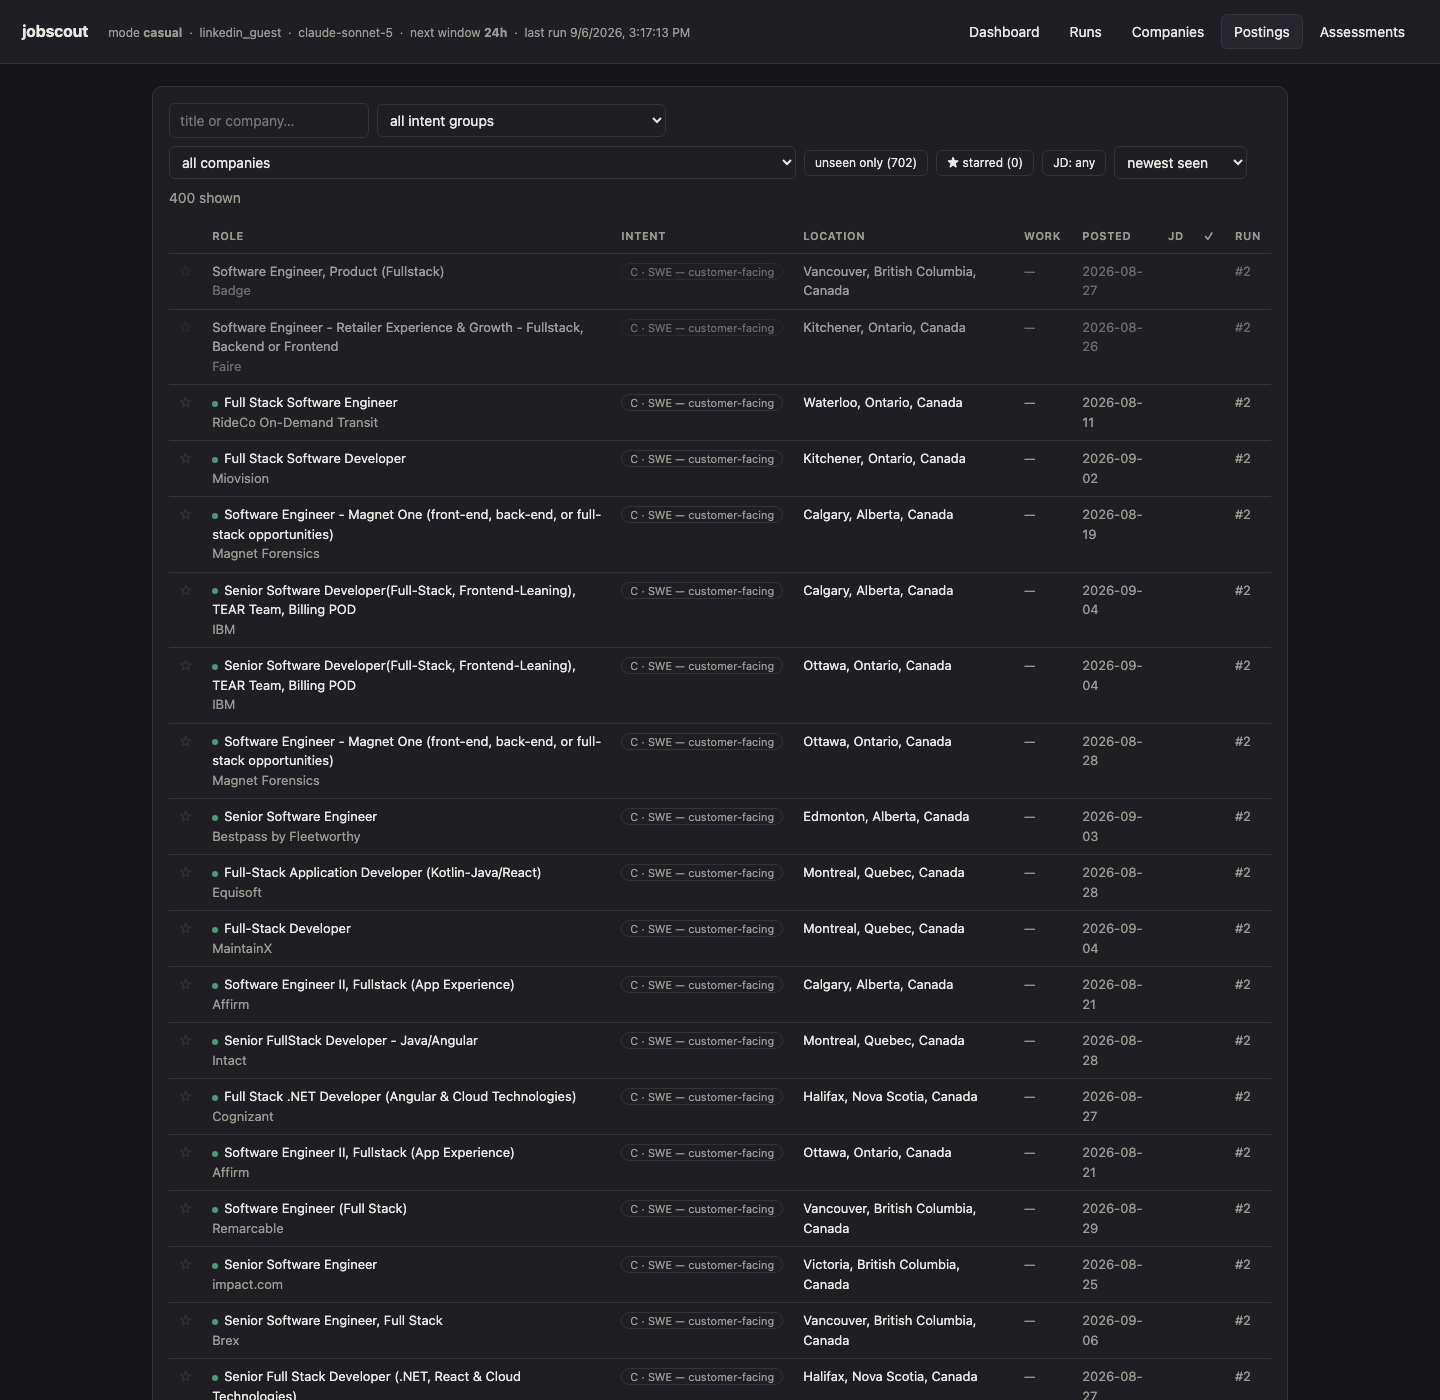
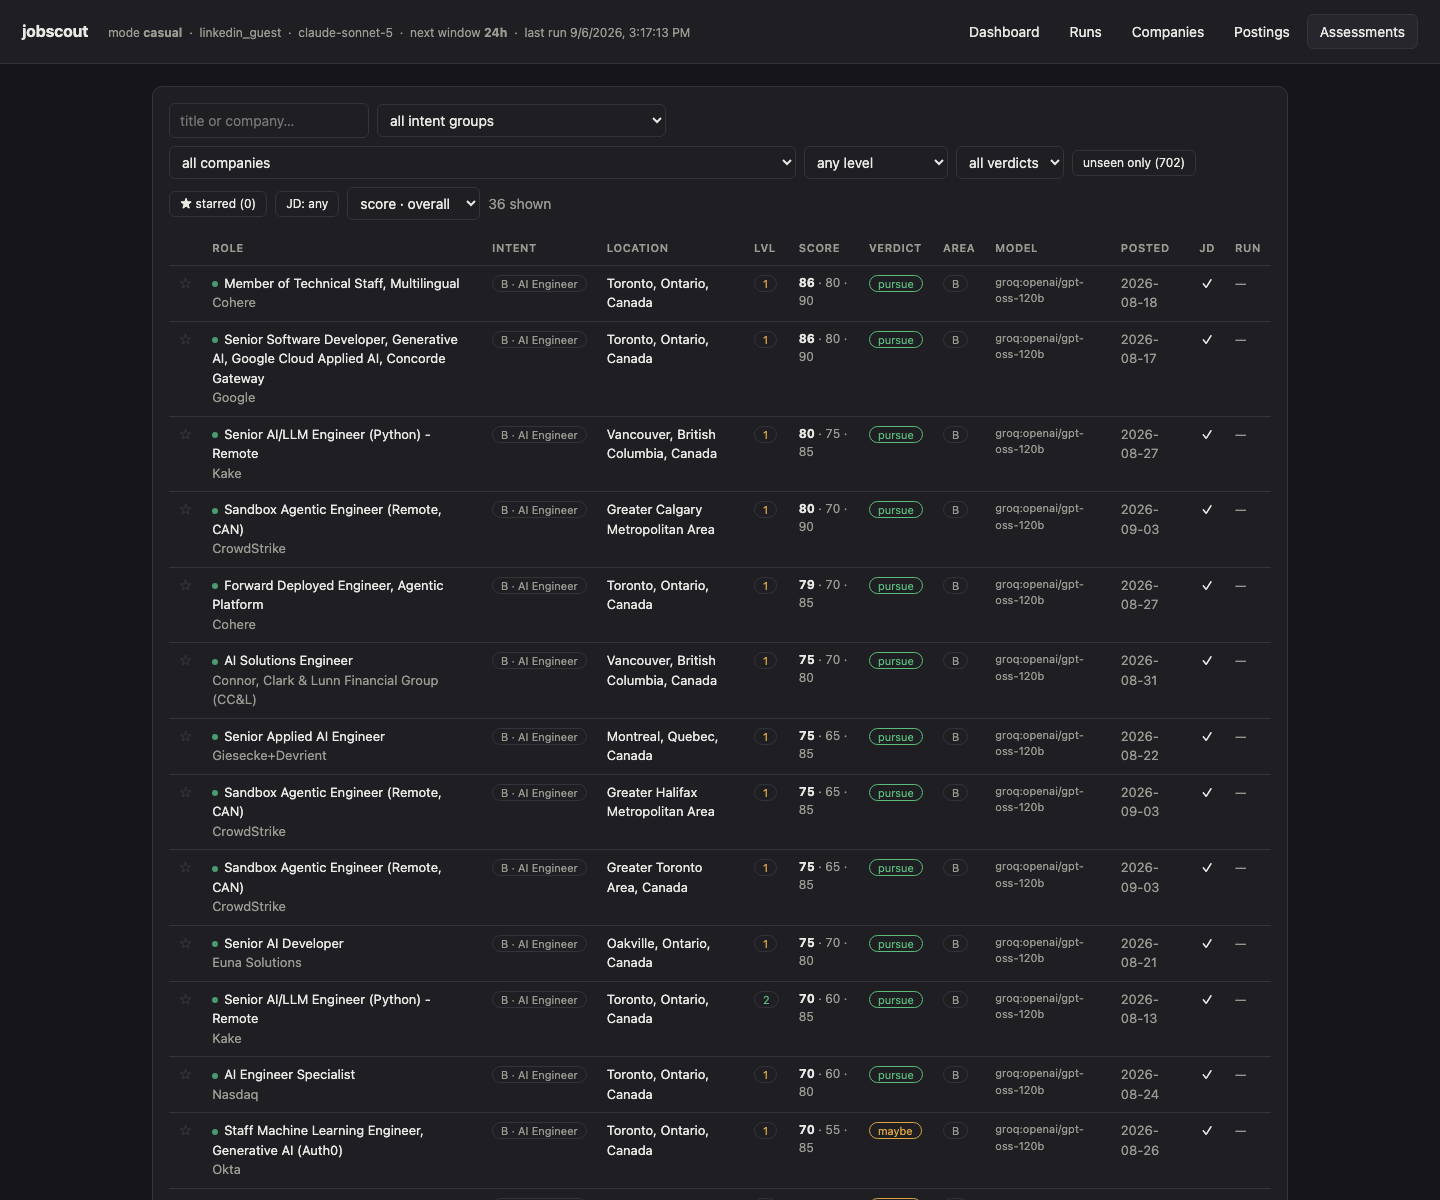
Postings/Assessments: assessment level + score columns, level filter + sort
- Lvl column (0 none · 1 triaged · 2 deep), colour-coded
- Score column: overall · chance · quality (0–100), sortable three ways
- "any level" filter dropdown (0/1/2)
- drawer: level in the heading, big score readout, method-aware fields + button
- drop the redundant "✓ assessed" column (Lvl covers it)

diff --git a/frontend/src/components/Postings.tsx b/frontend/src/components/Postings.tsx
@@ -6,6 +6,11 @@ type Tri = "any" | "yes" | "no";
 const cycle = (t: Tri): Tri => (t === "any" ? "yes" : t === "yes" ? "no" : "any");
 const triParam = (t: Tri): boolean | undefined => (t === "any" ? undefined : t === "yes");
 
+// assessment level from the stored method
+const levelOf = (p: Posting): 0 | 1 | 2 =>
+  p.assess_method === "single" ? 2 : p.assess_method === "batch" ? 1 : 0;
+const LEVEL_LABEL = ["—", "triaged", "deep"];
+
 export function Postings({
   mode,
   runId,
@@ -27,7 +32,8 @@ export function Postings({
   const [unseenOnly, setUnseenOnly] = useState(false);
   const [starredOnly, setStarredOnly] = useState(false);
   const [hasDesc, setHasDesc] = useState<Tri>("any");
-  const [order, setOrder] = useState(mode === "assessed" ? "verdict" : "first_seen_at");
+  const [level, setLevel] = useState<string>("");   // "" | "0" | "1" | "2"
+  const [order, setOrder] = useState(mode === "assessed" ? "score" : "first_seen_at");
   const [sel, setSel] = useState<number | null>(null);
   const [err, setErr] = useState<string | null>(null);
   const [loading, setLoading] = useState(false);
@@ -42,7 +48,8 @@ export function Postings({
           group: group || undefined,
           company: company || undefined,
           run_id: runId ?? undefined,
-          assessed: mode === "assessed" ? true : undefined,
+          assessed: mode === "assessed" && level === "" ? true : undefined,
+          level: level === "" ? undefined : Number(level),
           seen: unseenOnly ? false : undefined,
           starred: starredOnly ? true : undefined,
           has_description: triParam(hasDesc),
@@ -61,7 +68,7 @@ export function Postings({
     } finally {
       setLoading(false);
     }
-  }, [search, verdict, group, company, runId, unseenOnly, starredOnly, hasDesc, order, mode]);
+  }, [search, verdict, group, company, runId, unseenOnly, starredOnly, hasDesc, level, order, mode]);
 
   useEffect(() => {
     if (initialCompany != null) setCompany(initialCompany);
@@ -103,6 +110,12 @@ export function Postings({
             </option>
           ))}
         </select>
+        <select value={level} onChange={(e) => setLevel(e.target.value)} title="assessment level">
+          <option value="">any level</option>
+          <option value="0">0 · not assessed</option>
+          <option value="1">1 · triaged</option>
+          <option value="2">2 · deep</option>
+        </select>
         {mode === "assessed" && (
           <select value={verdict} onChange={(e) => setVerdict(e.target.value)}>
             {["", "pursue", "maybe", "skip"].map((v) => (
@@ -143,6 +156,9 @@ export function Postings({
           <option value="posted_at">newest posted</option>
           <option value="company">company</option>
           <option value="verdict">verdict</option>
+          <option value="score">score · overall</option>
+          <option value="score_chance">score · chance</option>
+          <option value="score_quality">score · quality</option>
         </select>
 
         <span className="muted">{loading ? "…" : `${count} shown`}</span>
@@ -157,8 +173,7 @@ export function Postings({
 
       {mode === "assessed" && count === 0 && !loading && (
         <div className="empty">
-          No assessments match. The assessor (Phase 3) hasn't run yet — fetched postings are on the
-          Postings tab.
+          No assessed postings match. Run <b>Triage</b> on the Dashboard to score them.
         </div>
       )}
 
@@ -170,13 +185,13 @@ export function Postings({
               <th>Role</th>
               <th>Intent</th>
               <th>Location</th>
-              <th>Work</th>
+              <th title="0 not assessed · 1 triaged · 2 deep">Lvl</th>
+              <th title="overall / chance / quality (0–100)">Score</th>
+              <th>Verdict</th>
+              {mode === "assessed" && <th>Area</th>}
+              {mode === "assessed" && <th>Model</th>}
               <th>Posted</th>
               <th title="has description">JD</th>
-              <th title="has assessment">✓</th>
-              {mode === "assessed" && <th>Area</th>}
-              {mode === "assessed" && <th>Verdict</th>}
-              {mode === "assessed" && <th>Model</th>}
               <th>Run</th>
             </tr>
           </thead>
@@ -217,19 +232,36 @@ export function Postings({
                   )}
                 </td>
                 <td>{p.location}</td>
-                <td className="muted">{p.workplace_type ?? "—"}</td>
-                <td className="muted">{p.posted_at ?? "—"}</td>
-                <td style={{ textAlign: "center" }} title={p.description ? "has JD" : "no JD"}>
-                  {p.description ? "✓" : ""}
+                <td>
+                  <span
+                    className="pill"
+                    title={LEVEL_LABEL[levelOf(p)]}
+                    style={{
+                      color:
+                        levelOf(p) === 2 ? "var(--pursue)"
+                        : levelOf(p) === 1 ? "var(--maybe)"
+                        : "var(--muted)",
+                    }}
+                  >
+                    {levelOf(p)}
+                  </span>
                 </td>
-                <td style={{ textAlign: "center" }} title={p.verdict ? "assessed" : "not assessed"}>
-                  {p.verdict || p.assessed_at ? "✓" : ""}
+                <td style={{ fontVariantNumeric: "tabular-nums", fontSize: 12 }}>
+                  {p.score_overall == null ? (
+                    <span className="muted">—</span>
+                  ) : (
+                    <>
+                      <b>{p.score_overall}</b>
+                      <span className="muted"> · {p.score_chance} · {p.score_quality}</span>
+                    </>
+                  )}
                 </td>
+                <td>{p.verdict ? <span className={"pill " + p.verdict}>{p.verdict}</span> : "—"}</td>
                 {mode === "assessed" && (
                   <td>
                     {p.area ? (
                       <span className="pill area" title={AREA_NAMES[p.area]}>
-                        {p.area} · {AREA_NAMES[p.area] ?? "?"}
+                        {p.area}
                       </span>
                     ) : (
                       "—"
@@ -237,11 +269,12 @@ export function Postings({
                   </td>
                 )}
                 {mode === "assessed" && (
-                  <td>{p.verdict ? <span className={"pill " + p.verdict}>{p.verdict}</span> : "—"}</td>
-                )}
-                {mode === "assessed" && (
                   <td className="muted" style={{ fontSize: 11 }}>{p.assessed_model ?? "—"}</td>
                 )}
+                <td className="muted">{p.posted_at ?? "—"}</td>
+                <td style={{ textAlign: "center" }} title={p.description ? "has JD" : "no JD"}>
+                  {p.description ? "✓" : ""}
+                </td>
                 <td className="muted">{p.first_run_id ? `#${p.first_run_id}` : "—"}</td>
               </tr>
             ))}

diff --git a/frontend/src/components/PostingDrawer.tsx b/frontend/src/components/PostingDrawer.tsx
@@ -141,7 +141,21 @@ export function PostingDrawer({
             </dl>
 
             <div className="panel" style={{ background: "var(--panel-2)" }}>
-              <h2>Assessment</h2>
+              <h2>
+                Assessment ·{" "}
+                {p.assess_method === "single"
+                  ? "level 2 · deep"
+                  : p.assess_method === "batch"
+                    ? "level 1 · triaged"
+                    : "level 0 · none"}
+              </h2>
+              {p.score_overall != null && (
+                <div style={{ display: "flex", gap: 16, marginBottom: 8 }}>
+                  <Score label="overall" v={p.score_overall} />
+                  <Score label="chance" v={p.score_chance} />
+                  <Score label="quality" v={p.score_quality} />
+                </div>
+              )}
               {p.verdict ? (
                 <>
                   <div style={{ marginBottom: 8 }}>
@@ -150,9 +164,11 @@ export function PostingDrawer({
                       area {p.area}
                       {p.area && AREA_NAMES[p.area] ? ` · ${AREA_NAMES[p.area]}` : ""}
                     </span>{" "}
-                    <span className="muted">
-                      quality {p.target_quality} · chance {p.chance} · comp {p.comp_vs_baseline}
-                    </span>
+                    {p.assess_method === "single" && (
+                      <span className="muted">
+                        quality {p.target_quality} · chance {p.chance} · comp {p.comp_vs_baseline}
+                      </span>
+                    )}
                   </div>
                   {p.area_reason && (
                     <p style={{ margin: "6px 0", fontSize: 13 }} className="muted">
@@ -166,14 +182,18 @@ export function PostingDrawer({
                     </div>
                   )}
                   <div className="muted" style={{ fontSize: 11, marginTop: 6 }}>
-                    <span className="pill">{p.assessed_model ?? "?"}</span> · assessed {p.assessed_at}
+                    <span className="pill">{p.assessed_model ?? "?"}</span> · {p.assessed_at}
                   </div>
                 </>
               ) : (
                 <div className="muted">Not assessed yet.</div>
               )}
               <button onClick={assess} disabled={busy} style={{ marginTop: 10 }}>
-                {busy ? "assessing…" : p.verdict ? "re-assess" : "assess now"}
+                {busy
+                  ? "assessing…"
+                  : p.assess_method === "single"
+                    ? "re-assess (deep)"
+                    : "deep-assess this one"}
               </button>
             </div>
 
@@ -191,5 +211,15 @@ export function PostingDrawer({
         )}
       </aside>
     </>
+  );
+}
+
+function Score({ label, v }: { label: string; v: number | null }) {
+  const color = v == null ? "var(--muted)" : v >= 70 ? "var(--pursue)" : v >= 45 ? "var(--maybe)" : "var(--skip)";
+  return (
+    <div>
+      <div style={{ fontSize: 20, fontWeight: 700, color }}>{v ?? "—"}</div>
+      <div className="muted" style={{ fontSize: 11 }}>{label}</div>
+    </div>
   );
 }
